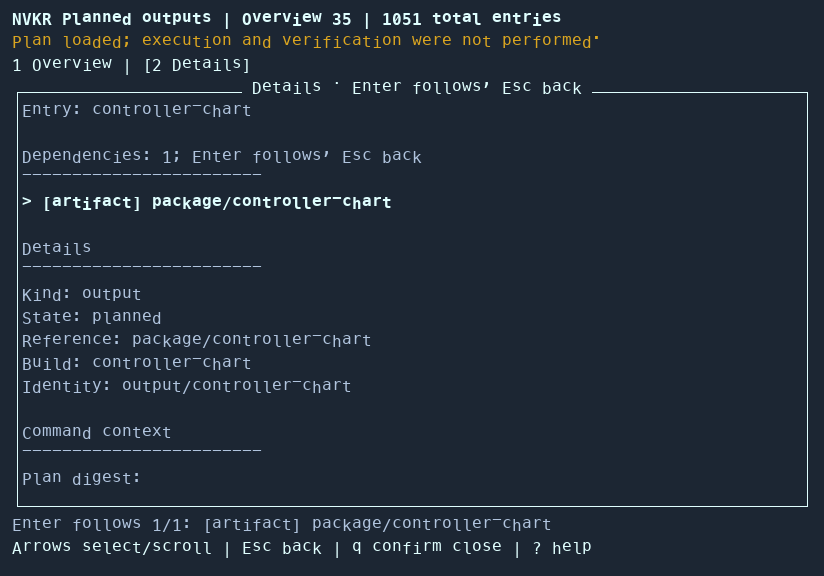
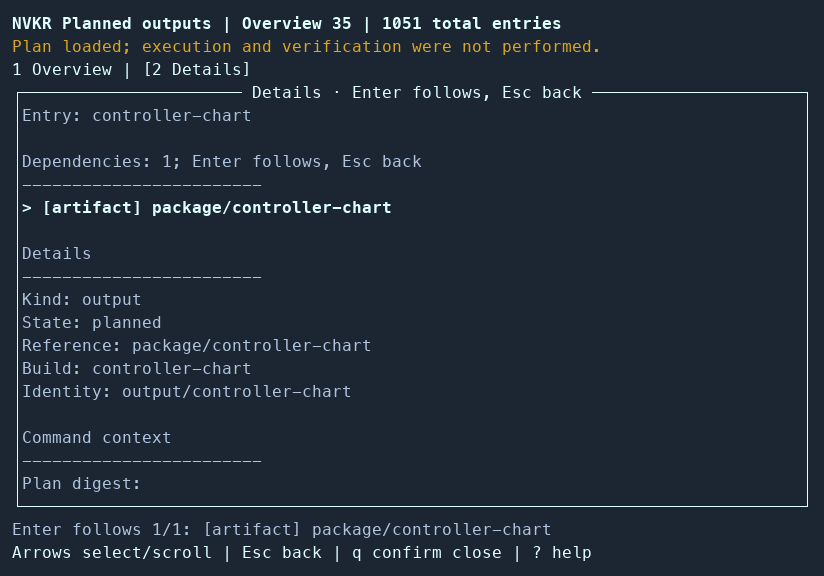
fix(docs): align dashboard screenshot glyph baselines

diff --git a/docs/assets/nvkr-dashboard/README.md b/docs/assets/nvkr-dashboard/README.md
@@ -8,7 +8,8 @@ and validated by `planview.Load`; `graphDisplay` supplies the same typed
 description as `run graph --ui=tui`. Enter and Esc events drive the actual
 `runpresenter.View`, and `tcell.SimulationScreen.GetContents` captures its cells.
 The cells and their foreground/background colors are rasterized with Menlo
-without changing their text or layout. Box-drawing glyphs join at cell edges.
+on a fixed-width cell grid with one shared font baseline per row, without
+changing their text or layout. Box-drawing glyphs join at cell edges.
 Monochrome cells illustrate a dark sample terminal's defaults; NVKR does not
 choose the terminal's default colors.
 
